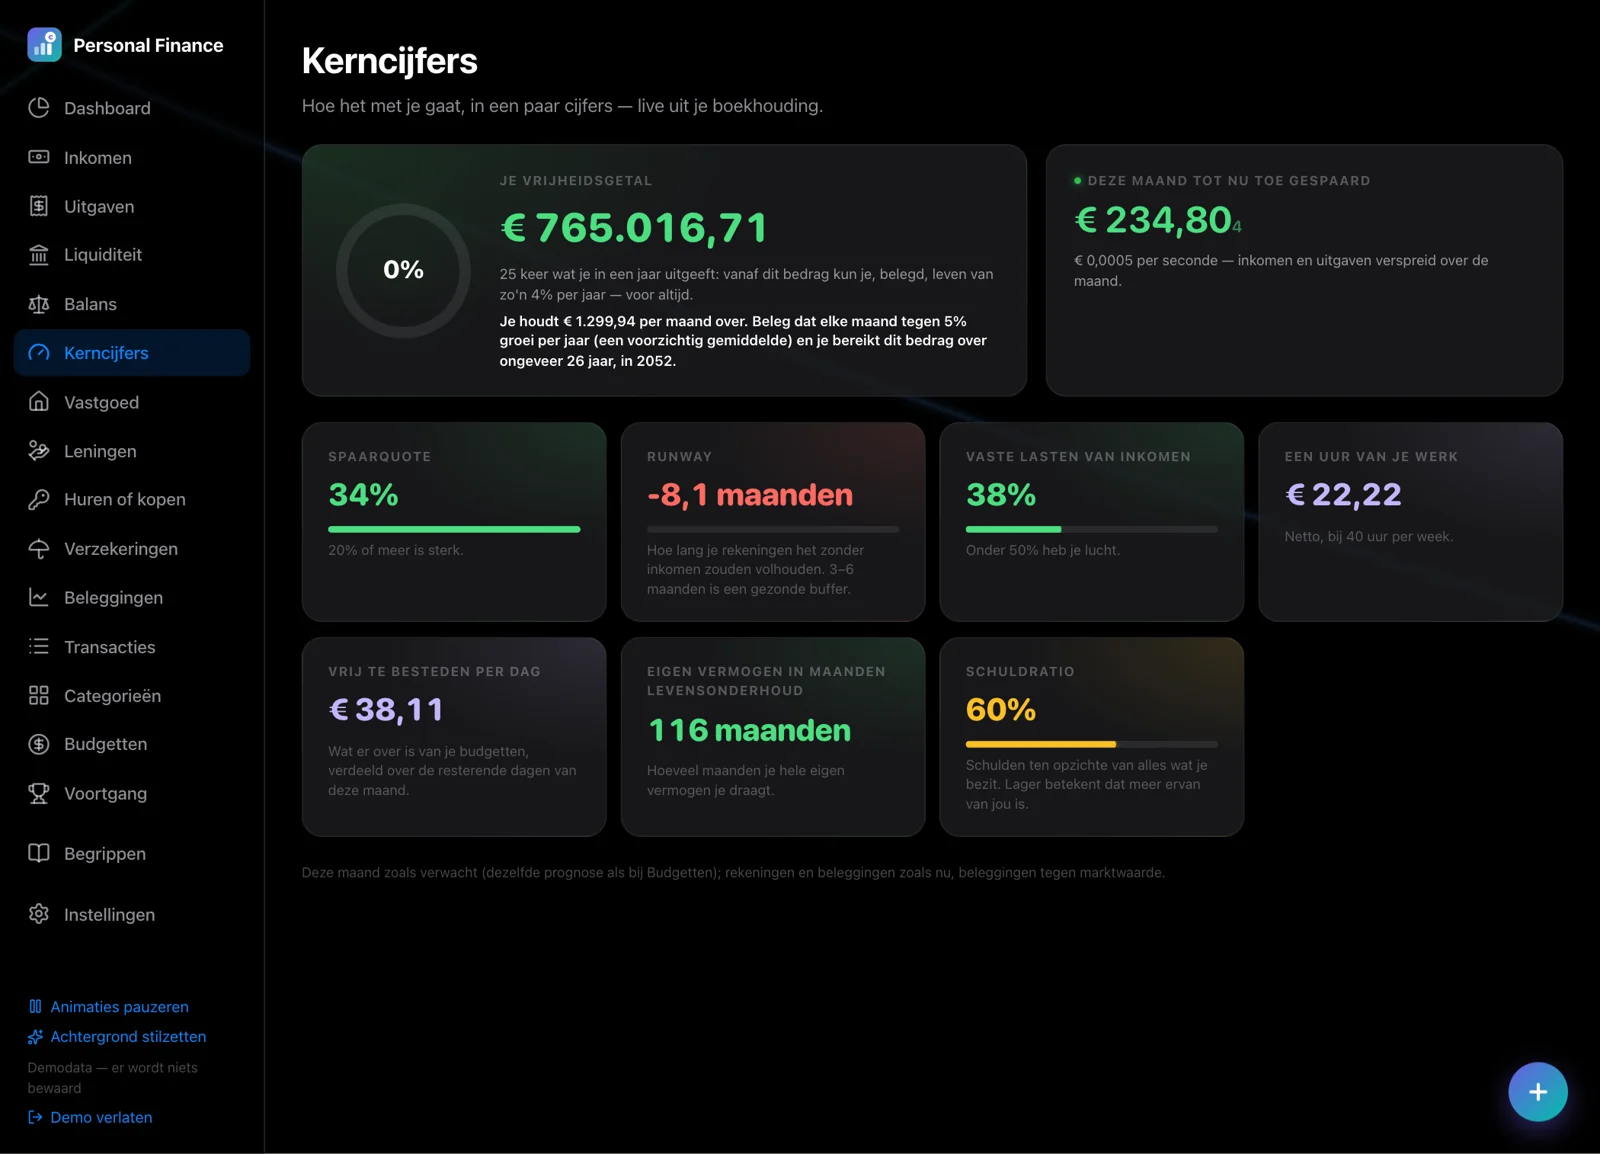
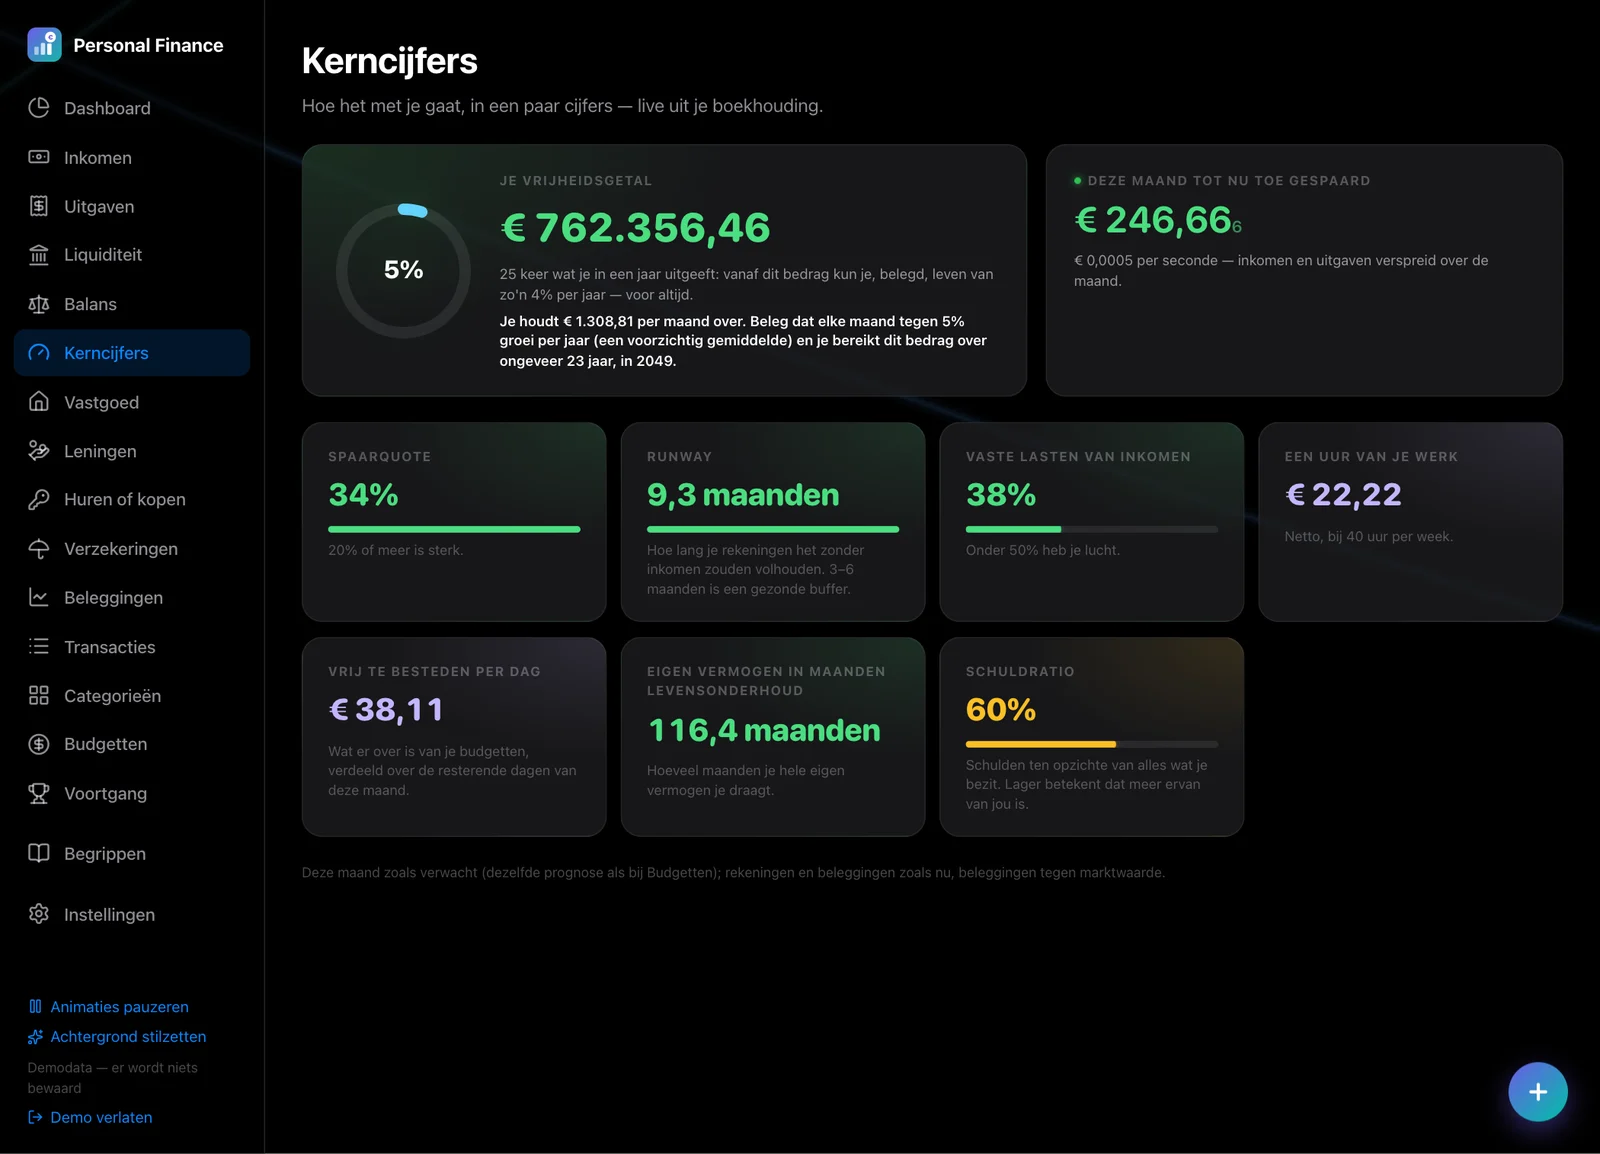
Homepage: enter your own net pay and watch it spread over the month (page only, never sent); demo income booked on the current account (runway was -8.1 months); stand screenshots retaken

diff --git a/public/home/index.html b/public/home/index.html
@@ -61,6 +61,10 @@
   .hint b { color: var(--c-ink); font-weight: 500; }
 
   /* B: the live console, floating over the desk */
+  .netin { display: flex; flex-wrap: wrap; align-items: center; justify-content: space-between; gap: 6px 12px; margin-top: 4px; font-size: 13px; color: var(--c-muted); }
+  .netin__box { display: inline-flex; align-items: center; gap: 6px; padding: 4px 10px; border-radius: 8px; background: var(--c-surface-2); box-shadow: inset 0 0 0 1px var(--c-rule); color: var(--c-ink); font: 500 14px var(--mono); transition: box-shadow 200ms; }
+  .netin__box:focus-within { box-shadow: inset 0 0 0 1px #30d158, 0 0 0 3px color-mix(in oklch, #30d158 25%, transparent); }
+  .netin input { width: 7ch; border: 0; padding: 0; background: transparent; color: #30d158; font: inherit; font-variant-numeric: tabular-nums; outline: none; text-align: right; }
   .console { margin-top: 10px; display: grid; gap: 1px; background: var(--c-rule); border-radius: 4px; overflow: hidden; box-shadow: 0 24px 48px -24px oklch(5% 0.02 200 / 0.9); }
   .console header { display: flex; justify-content: space-between; padding: 8px 14px; background: var(--c-surface-2); font: 500 11px var(--mono); color: var(--c-muted); }
   .read { padding: 12px 14px; background: color-mix(in oklch, var(--c-surface) 94%, transparent); }
@@ -246,7 +250,8 @@
       <div class="read">
         <small>Je loon telt elke seconde</small><strong id="pay">€ 0,000</strong>
         <div class="mbar" aria-hidden="true"><i id="mfill"></i><span id="mticks"></span></div>
-        <em>€ 3.800 per maand, over elke seconde verdeeld: je saldo klopt elke dag, niet pas na betaaldag.</em>
+        <label class="netin" for="netIn"><span>Vul je eigen netto loon in</span><span class="netin__box">€ <input id="netIn" type="text" inputmode="decimal" value="3.800" autocomplete="off" aria-describedby="netOut"> per maand</span></label>
+        <em id="netOut">Over elke seconde van de maand verdeeld: je saldo klopt elke dag, niet pas na betaaldag.</em>
       </div>
       <div class="read">
         <small>Je beleggingen bewegen mee</small>
@@ -328,7 +333,7 @@
       <div class="stand__stage" id="standStage">
       <img class="photo" src="/home/img/bare-ipad-stand.webp?v=5" width="2400" height="1350" alt="" loading="lazy">
       <div class="stand__screen" id="standScreen" aria-hidden="true">
-        <img class="cur" src="/home/img/st-balance.webp?v=5" alt=""><img src="/home/img/st-budgets.webp?v=5" alt=""><img src="/home/img/st-figures.webp?v=5" alt=""><img src="/home/img/st-investments.webp?v=5" alt=""><img src="/home/img/st-progress.webp?v=5" alt="">
+        <img class="cur" src="/home/img/st-balance.webp?v=6" alt=""><img src="/home/img/st-budgets.webp?v=6" alt=""><img src="/home/img/st-figures.webp?v=6" alt=""><img src="/home/img/st-investments.webp?v=6" alt=""><img src="/home/img/st-progress.webp?v=6" alt="">
       </div>
       </div>
       <div class="steps" id="steps">
@@ -492,6 +497,20 @@
     document.getElementById('eq').textContent = PF.f2.format(425000 + 16900 + 42000 + (PF.btc.eur != null ? PF.btc.eur * 0.05 : 0) - 310000 - 18000 + m.earned * 0.14);
   }
   tick(); setInterval(tick, 50);
+  // The visitor's own pay: everything that counts with pay (the ticking
+  // amount, the month bar, the chip, equity) follows it straight away.
+  (function () {
+    var inp = document.getElementById('netIn'), out = document.getElementById('netOut');
+    function upd() {
+      var v = parseFloat(inp.value.replace(/\./g, '').replace(',', '.'));
+      if (!(v >= 0)) return;
+      PF.setNet(v);
+      var n = new Date(), days = new Date(n.getFullYear(), n.getMonth() + 1, 0).getDate();
+      out.textContent = 'Dat is ' + PF.f2.format(v / days) + ' per dag, ' + PF.f2.format(v / days / 24) + ' per uur en ' + new Intl.NumberFormat('nl-NL', { style: 'currency', currency: 'EUR', minimumFractionDigits: 5, maximumFractionDigits: 5 }).format(v / days / 86400) + ' per seconde. Vandaag sta je al op ' + PF.f2.format(PF.month().earned) + '.';
+    }
+    inp.addEventListener('input', upd);
+    inp.addEventListener('blur', function () { var v = parseFloat(inp.value.replace(/\./g, '').replace(',', '.')); if (v >= 0) inp.value = new Intl.NumberFormat('nl-NL', { maximumFractionDigits: 0 }).format(v); });
+  })();
 </script>
 </body>
 </html>

diff --git a/lib/finance/demo.ts b/lib/finance/demo.ts
@@ -109,12 +109,12 @@ export function buildDemoData(now = new Date()): FinanceData {
     // freelance are untaxed here (gross = net).
     const salary = 3850 + (rand() * 2 - 1) * 260;
     push({ amount: salary.toFixed(2), type: "income", date: day(25), note: "Salary", is_auto_income: true,
-      is_fixed_expense: false, recurrence_id: null, category_id: cat("Income"), account_id: null, gross_amount: ((salary * 5200) / 3850).toFixed(2) });
+      is_fixed_expense: false, recurrence_id: null, category_id: cat("Income"), account_id: id("a", 0), gross_amount: ((salary * 5200) / 3850).toFixed(2) });
     if (back === 0 && now.getDate() < 25) transactions.pop();
     const calMonth = new Date(y, m, 1).getMonth();
     const extra = (amount: number, d: number, note: string, gross: number | null = null) =>
       push({ amount: amount.toFixed(2), type: "income", date: day(d), note, is_auto_income: false,
-        is_fixed_expense: false, recurrence_id: null, category_id: cat("Income"), account_id: null, gross_amount: gross === null ? null : gross.toFixed(2) });
+        is_fixed_expense: false, recurrence_id: null, category_id: cat("Income"), account_id: id("a", 0), gross_amount: gross === null ? null : gross.toFixed(2) });
     if (back > 0) {
       if (calMonth === 4) extra(2480, 20, "Holiday allowance", 2480 / 0.55);
       if (calMonth === 11) extra(1900, 18, "Year-end bonus", 1900 / 0.55);

diff --git a/public/home/shared.js b/public/home/shared.js
@@ -61,5 +61,7 @@ window.PF = (function () {
     el.style.transform = matrix3d(el.offsetWidth, el.offsetHeight, q);
   }
 
-  return { month: month, btc: btc, f2: f2, f3: f3, f0: f0, matrix3d: matrix3d, onto: onto, NET: NET };
+  // setNet: the visitor's own pay from the homepage (kept in the page only, never sent).
+  function setNet(v) { if (v >= 0 && v < 1e7) NET = v; }
+  return { month: month, btc: btc, f2: f2, f3: f3, f0: f0, matrix3d: matrix3d, onto: onto, setNet: setNet, net: function () { return NET; } };
 })();
